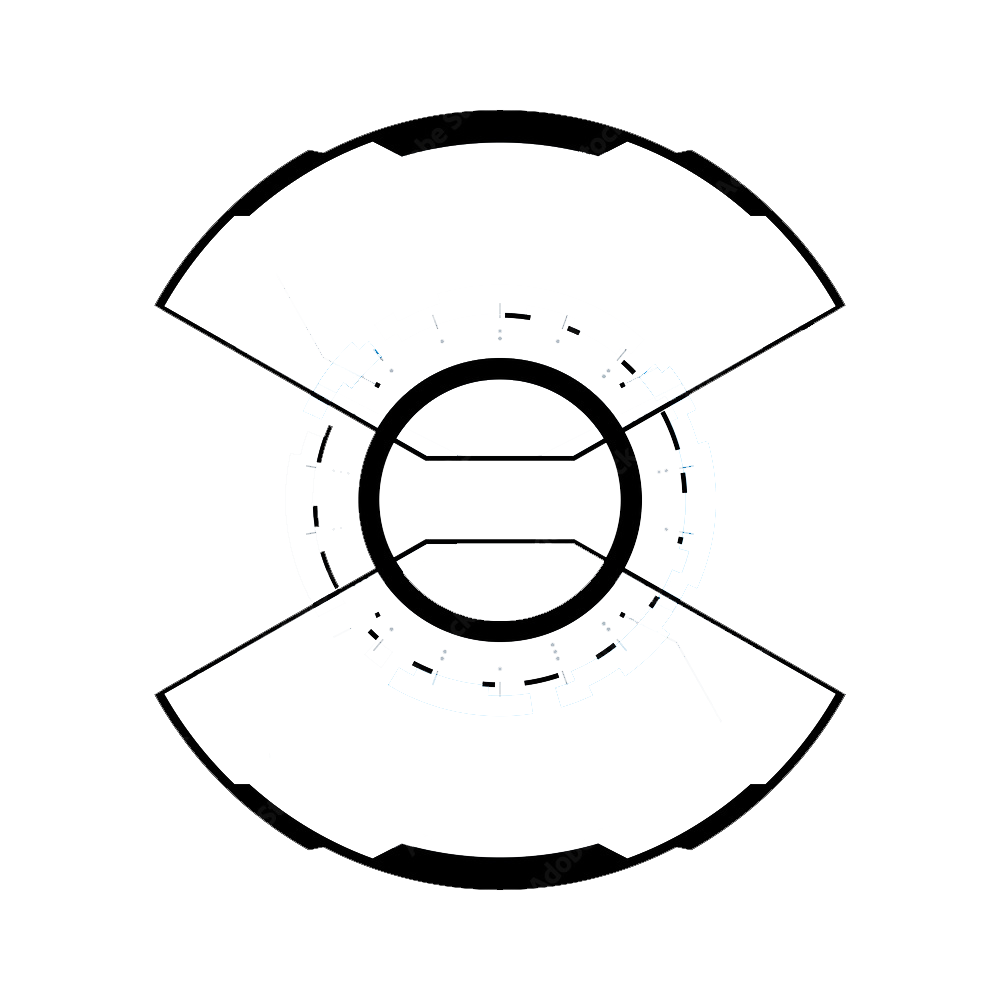
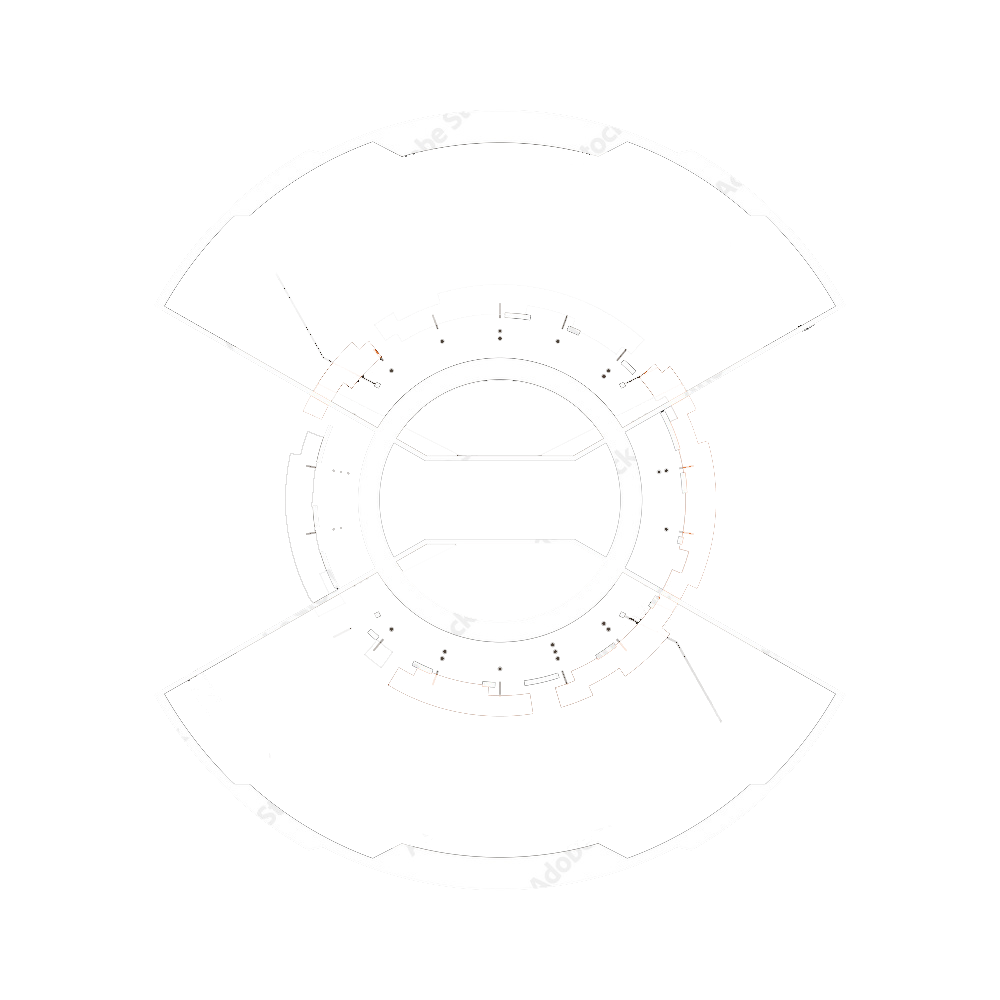
Colors

diff --git a/website/components/layout/header/mobile/index.js b/website/components/layout/header/mobile/index.js
@@ -248,7 +248,7 @@ export default function Header({ siteConfig, handleLogout }) {
                   target="_blank"
                   rel="noreferrer"
                 >
-                  <IconInstagram color="black" size={30} />
+                  <IconInstagram color="white" size={30} />
                 </a>
               </div>
 
@@ -259,7 +259,7 @@ export default function Header({ siteConfig, handleLogout }) {
                   target="_blank"
                   rel="noreferrer"
                 >
-                  <IconSoundcloud color="black" size={30} />
+                  <IconSoundcloud color="white" size={30} />
                 </a>
               </div>
               <div className="col-6  col-3-md  flex  justify-center  pt4  pt0-md">
@@ -269,7 +269,7 @@ export default function Header({ siteConfig, handleLogout }) {
                   target="_blank"
                   rel="noreferrer"
                 >
-                  <IconYoutube color="black" size={30} />
+                  <IconYoutube color="white" size={30} />
                 </a>
               </div>
 
@@ -280,7 +280,7 @@ export default function Header({ siteConfig, handleLogout }) {
                   target="_blank"
                   rel="noreferrer"
                 >
-                  <IconSpotify color="black" size={30} />
+                  <IconSpotify color="white" size={30} />
                 </a>
               </div>
 
@@ -291,7 +291,7 @@ export default function Header({ siteConfig, handleLogout }) {
                   target="_blank"
                   rel="noreferrer"
                 >
-                  <IconGithub color="black" size={30} />
+                  <IconGithub color="white" size={30} />
                 </a>
               </div>
 
@@ -302,7 +302,7 @@ export default function Header({ siteConfig, handleLogout }) {
                   target="_blank"
                   rel="noreferrer"
                 >
-                  <IconTwitter color="black" size={30} />
+                  <IconTwitter color="white" size={30} />
                 </a>
               </div>
 
@@ -313,7 +313,7 @@ export default function Header({ siteConfig, handleLogout }) {
                   target="_blank"
                   rel="noreferrer"
                 >
-                  <IconBandcamp color="black" size={30} />
+                  <IconBandcamp color="white" size={30} />
                 </a>
               </div>
             </div>

diff --git a/website/components/layout/footer/index.js b/website/components/layout/footer/index.js
@@ -42,7 +42,7 @@ export default function Footer() {
               target="_blank"
               rel="noreferrer"
             >
-              <IconInstagram color="black" size={30} />
+              <IconInstagram color="white" size={30} />
             </a>
           </div>
 
@@ -53,7 +53,7 @@ export default function Footer() {
               target="_blank"
               rel="noreferrer"
             >
-              <IconSoundcloud color="black" size={30} />
+              <IconSoundcloud color="white" size={30} />
             </a>
           </div>
           <div className="col-6  col-3-md  flex  justify-center  pt4  pt0-md">
@@ -63,7 +63,7 @@ export default function Footer() {
               target="_blank"
               rel="noreferrer"
             >
-              <IconYoutube color="black" size={30} />
+              <IconYoutube color="white" size={30} />
             </a>
           </div>
 
@@ -74,7 +74,7 @@ export default function Footer() {
               target="_blank"
               rel="noreferrer"
             >
-              <IconSpotify color="black" size={30} />
+              <IconSpotify color="white" size={30} />
             </a>
           </div>
 
@@ -85,7 +85,7 @@ export default function Footer() {
               target="_blank"
               rel="noreferrer"
             >
-              <IconGithub color="black" size={30} />
+              <IconGithub color="white" size={30} />
             </a>
           </div>
 
@@ -96,7 +96,7 @@ export default function Footer() {
               target="_blank"
               rel="noreferrer"
             >
-              <IconTwitter color="black" size={30} />
+              <IconTwitter color="white" size={30} />
             </a>
           </div>
 
@@ -107,13 +107,13 @@ export default function Footer() {
               target="_blank"
               rel="noreferrer"
             >
-              <IconBandcamp color="black" size={30} />
+              <IconBandcamp color="white" size={30} />
             </a>
           </div>
         </div>
 
         <div className="flex  justify-center  pt4">
-          <p className="t-secondary  bold  f5  lh-copy  almost-black  tac  dib  mla  mra">
+          <p className="t-secondary  bold  f5  lh-copy  almost-white  tac  dib  mla  mra">
             Daniel Aagentah {new Date().getFullYear()}
           </p>
         </div>

diff --git a/website/components/card/project/index.js b/website/components/card/project/index.js
@@ -14,7 +14,7 @@ export default function CardPost({ item, placeholder }) {
   const app = useApp();
   const scale = app?.isRetina ? 2 : 1;
   const imageUrlWidth = app?.deviceSize === 'md' ? 1080 : 1080;
-  const imageHeight = app?.deviceSize === 'md' ? 180 : 280;
+  const imageHeight = app?.deviceSize === 'md' ? 180 : 180;
   const buttonIcon = <Icon icon={['fa', 'arrow-right']} size="3x" />;
 
   const image = (
@@ -45,8 +45,8 @@ export default function CardPost({ item, placeholder }) {
         routerLink: Link,
         routerLinkProps: {
           as: `/project/${item?.slug}`,
-          scroll: false
-        }
+          scroll: false,
+        },
       }}
     />
   );
@@ -82,8 +82,8 @@ export default function CardPost({ item, placeholder }) {
         routerLink: Link,
         routerLinkProps: {
           as: `/project/${item?.slug}`,
-          scroll: false
-        }
+          scroll: false,
+        },
       }}
     />
   );
@@ -132,10 +132,12 @@ export default function CardPost({ item, placeholder }) {
   //   </LazyLoad>
 
   return (
-    <article className="card  card--item">
-      {image && <div className="card__image">{image}</div>}
+    <article className="card  card--project  flex  flex-wrap">
+      {image && (
+        <div className="col-24  col-10-md  ph3  card__image">{image}</div>
+      )}
 
-      <div className="card__dialog">
+      <div className="col-24  col-14-md  ph3  card__dialog">
         {labels?.length && <div className="card__labels">{[...labels]}</div>}
         {heading && <div className="card__title">{heading}</div>}
         {copy && <div className="card__description">{copy}</div>}

diff --git a/website/pages/project/[slug].js b/website/pages/project/[slug].js
@@ -12,7 +12,7 @@ import SubscribeBanner from '~/components/subscribe-banner';
 import Container from '~/components/layout/container';
 
 import Date from '~/components/date';
-import CardPostThumbnail from '~/components/card/post-thumbnail';
+import CardPost from '~/components/card/post';
 import { useApp } from '~/context-provider/app';
 
 import {
@@ -125,15 +125,15 @@ export default function Project({
 
               {project?.childPosts?.length > 0 && (
                 <section className="pb4">
-                  <h2 className="t-primary  f4  lh-title  blck  tal  pb3">
-                    Related Posts:
+                  <h2 className="t-primary  ph3  f5  lh-title  blck  tal  pb3">
+                    &gt; Blog posts for {project.title}
                   </h2>
 
                   <div className="flex  flex-wrap">
                     {project.childPosts.map((p, i) => (
-                      <div key={p.slug} className="col-24">
+                      <div key={p.slug} className="col-24  col-12-md">
                         <div className="pa3">
-                          <CardPostThumbnail i={i} item={p.post} />
+                          <CardPost i={i} item={p.post} />
                         </div>
                       </div>
                     ))}

diff --git a/website/styles/_vars.scss b/website/styles/_vars.scss
@@ -45,8 +45,8 @@ $type-scale: (
 // colors
 
 :root {
-  --black: #1a1a1a;
-  --almost-black: #111111;
+  --black: #f2f2f2;
+  --almost-black: #f2f2f2;
   --dark-grey: #343434;
   --mid-grey: #555555;
   --grey: #777777;
@@ -55,12 +55,33 @@ $type-scale: (
   --moon-grey: #cccccc;
   --light-grey: #eeeeee;
   --almost-white: #f5f5f5;
-  --white: #e6e6e6;
+  --white: #0d0d0d;
   --blue: #096dff;
   --red: #ff0000;
   --green: #1c9c08;
   --primary-color: #cc0000;
   --secondary-color: #000;
+}
+
+.inverted {
+  :root {
+    --black: #1a1a1a;
+    --almost-black: #111111;
+    --dark-grey: #343434;
+    --mid-grey: #555555;
+    --grey: #777777;
+    --silver: #999999;
+    --light-silver: #aaaaaa;
+    --moon-grey: #cccccc;
+    --light-grey: #eeeeee;
+    --almost-white: #f5f5f5;
+    --white: #e6e6e6;
+    --blue: #096dff;
+    --red: #ff0000;
+    --green: #1c9c08;
+    --primary-color: #cc0000;
+    --secondary-color: #000;
+  }
 }
 
 // [data-theme="dark"] {

diff --git a/website/components/card/post/index.js b/website/components/card/post/index.js
@@ -14,7 +14,7 @@ export default function CardPost({ item, placeholder }) {
   const app = useApp();
   const scale = app?.isRetina ? 2 : 1;
   const imageUrlWidth = app?.deviceSize === 'md' ? 1080 : 1080;
-  const imageHeight = app?.deviceSize === 'md' ? 180 : 280;
+  const imageHeight = app?.deviceSize === 'md' ? 180 : 180;
   const buttonIcon = <Icon icon={['fa', 'arrow-right']} size="3x" />;
 
   const image = (
@@ -45,8 +45,8 @@ export default function CardPost({ item, placeholder }) {
         routerLink: Link,
         routerLinkProps: {
           as: `/post/${item?.slug}`,
-          scroll: false
-        }
+          scroll: false,
+        },
       }}
     />
   );
@@ -82,8 +82,8 @@ export default function CardPost({ item, placeholder }) {
         routerLink: Link,
         routerLinkProps: {
           as: `/post/${item?.slug}`,
-          scroll: false
-        }
+          scroll: false,
+        },
       }}
     />
   );

diff --git a/website/components/layout/header/desktop/index.js b/website/components/layout/header/desktop/index.js
@@ -26,7 +26,7 @@ export default function Header({ siteConfig, handleLogout }) {
         </h1>
       </div>
       <nav className="nav  col-18">
-        <ul className="flex  flex-wrap  justify-end  pr3  ls-none">
+        <ul className="flex  flex-wrap  justify-end  pr2  ls-none">
           {siteConfig?.menu?.map?.length &&
             siteConfig.menu.map((iteration, i) => {
               let path = iteration?.slug?.current;
@@ -37,7 +37,7 @@ export default function Header({ siteConfig, handleLogout }) {
                   <Button
                     /* Options */
                     type="secondary"
-                    size="large"
+                    size="medium"
                     text={`_${iteration?.title.toLowerCase()}`}
                     color="black"
                     fluid={false}

diff --git a/website/components/intro/index.js b/website/components/intro/index.js
@@ -422,14 +422,14 @@ export default function Intro({
             <div className="intro__planet" />
 
             <div
-              className="planet__hud__wrapper  planet__hud__wrapper--1"
+              className="planet__hud__wrapper  planet__hud__wrapper--1  o-50"
               style={rotate}
             >
               <img className="planet__hud" src="/images/hud-outside.png" />
             </div>
 
             <div
-              className="planet__hud__wrapper  planet__hud__wrapper--2"
+              className="planet__hud__wrapper  planet__hud__wrapper--2  o-50"
               style={rotate2}
             >
               <img className="planet__hud" src="/images/hud-inside.png" />

diff --git a/website/styles/modules/_card.scss b/website/styles/modules/_card.scss
@@ -5,12 +5,40 @@
   //
 }
 
+.card--project {
+  .card__dialog {
+    @extend .flex-md;
+    @extend .flex-wrap-md;
+    align-content: center;
+    @extend .pt3;
+    @extend .pt0-md;
+  }
+
+  .card__title {
+    @extend .col-24-md;
+    * {
+      @extend .f3-md;
+      @extend .lh-title;
+    }
+  }
+
+  .card__description {
+    @extend .col-24-md;
+  }
+}
+
 .card__image {
   position: relative;
   filter: grayscale(0.5);
   z-index: 1;
   transition: filter 0.3s ease-in-out;
+  @extend .ba;
+  @extend .bw1;
+  @extend .bc-grey;
+  border-top: 0;
+  border-right: 0;
   @extend .mb3;
+  @extend .pa4;
 
   &:hover {
     filter: grayscale(0);

diff --git a/website/components/grid/project/index.js b/website/components/grid/project/index.js
@@ -28,7 +28,7 @@ export default function GridItems({ padding, marginTop, marginBottom }) {
           >
             <div className="flex  flex-wrap">
               {[...Array(itemsLength)].map((iteration, i) => (
-                <div key={iteration} className="col-24  col-12-md">
+                <div key={iteration} className="col-24">
                   <div className="pt3  ph3  pb0">
                     <CardProject
                       i={i}

diff --git a/website/components/grid/post/index.js b/website/components/grid/post/index.js
@@ -28,7 +28,7 @@ export default function GridItems({ padding, marginTop, marginBottom }) {
           >
             <div className="flex  flex-wrap">
               {[...Array(itemsLength)].map((iteration, i) => (
-                <div key={iteration} className="col-24  col-12-md">
+                <div key={iteration} className="col-24  col-8-md">
                   <div className="pa3">
                     <CardPost
                       i={i}

diff --git a/website/components/card/music/index.js b/website/components/card/music/index.js
@@ -31,7 +31,7 @@ export default function CardMusic({ item, placeholder }) {
       placeholder={placeholder}
       alt={item?.title}
       figcaption={null}
-      height={280}
+      height={180}
       width={null}
       customClass={null}
       skeleton={!item}
